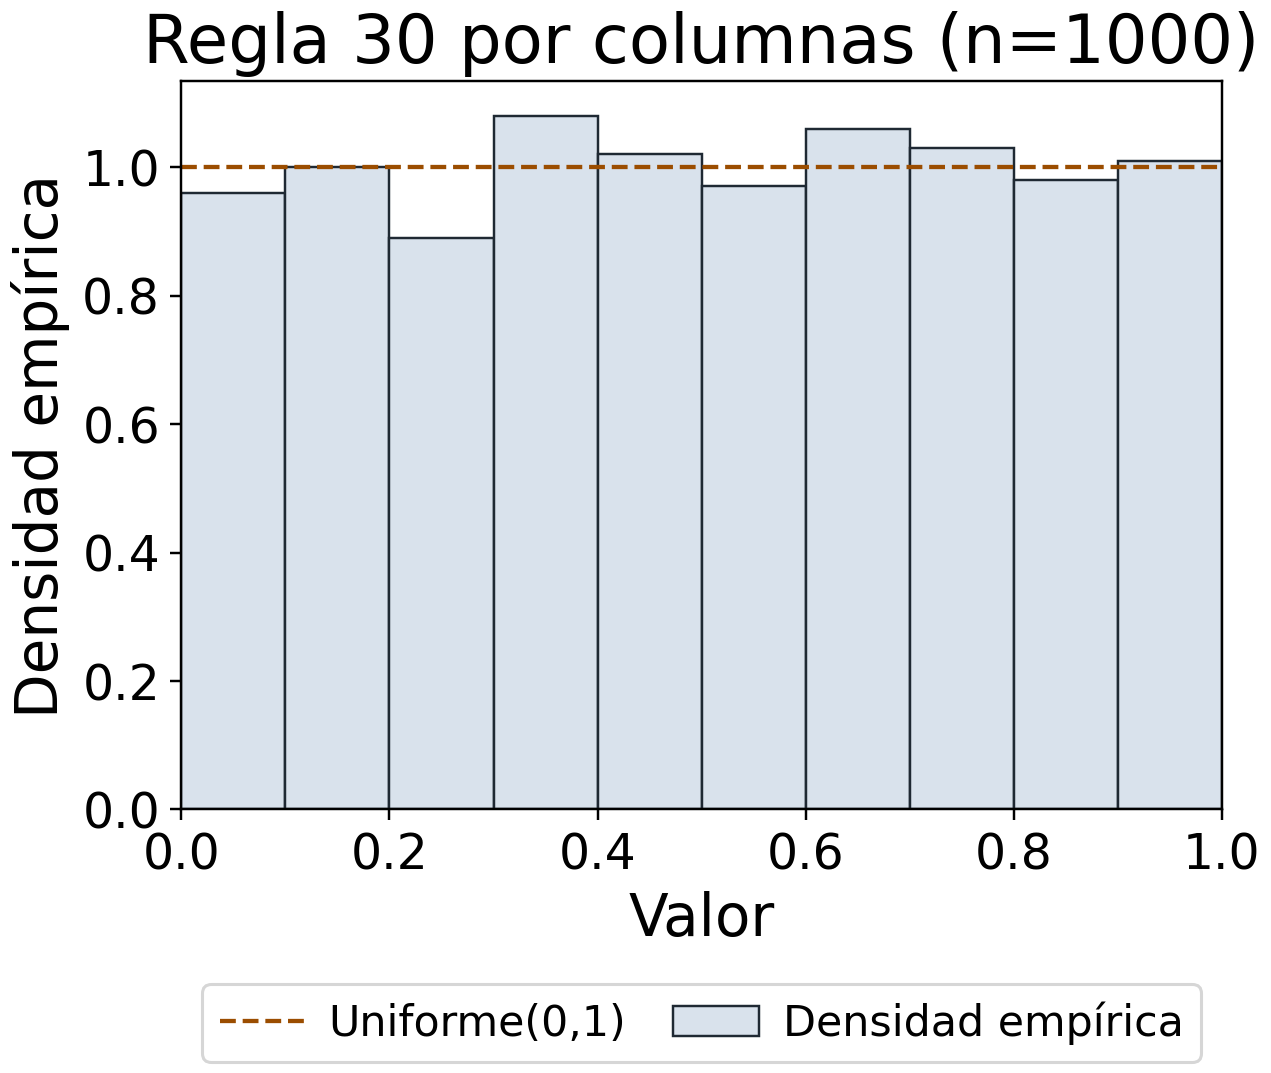
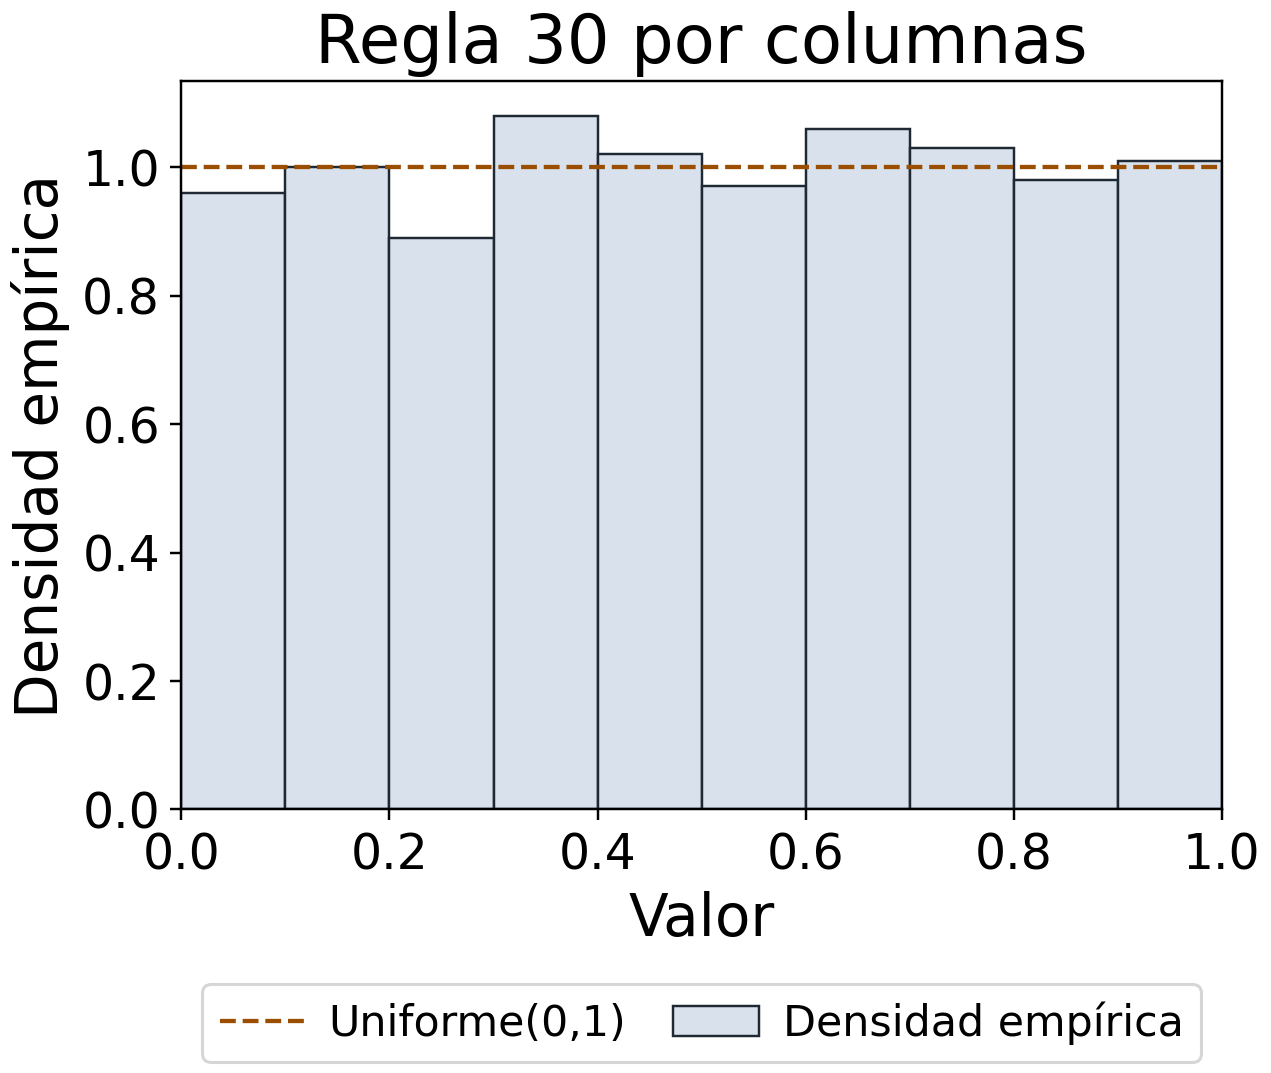
feat: simplifica titulos de histogramas canonicos

Changed region(s): [[0.0921, 0.0, 1.0, 0.0923]]

diff --git a/src/tesis_generacion/visualizacion/figuras_tesis.py b/src/tesis_generacion/visualizacion/figuras_tesis.py
@@ -666,22 +666,22 @@ def regenerar_figuras_tesis(output_dir: Path) -> Dict[str, object]:
     _figura_histograma(
         output_dir / "cientificas/logistico_histograma.png",
         logistica,
-        "Mapeo logístico uniformizado (n=1000)",
+        "Mapeo logístico uniformizado",
     )
     _figura_histograma(
         output_dir / "cientificas/tienda_histograma.png",
         tienda,
-        "Mapeo tienda, factor 1.999 (n=1000)",
+        "Mapeo tienda, factor 1.999",
     )
     _figura_histograma(
         output_dir / "cientificas/r30_hist_columnas.png",
         columnas,
-        "Regla 30 por columnas (n=1000)",
+        "Regla 30 por columnas",
     )
     _figura_histograma(
         output_dir / "cientificas/r30_hist_filas.png",
         filas,
-        "Regla 30 por filas (n=1000)",
+        "Regla 30 por filas",
     )
     rng = np.random.RandomState(SEED)
     matriz_canonica = evolucion_regla30(
